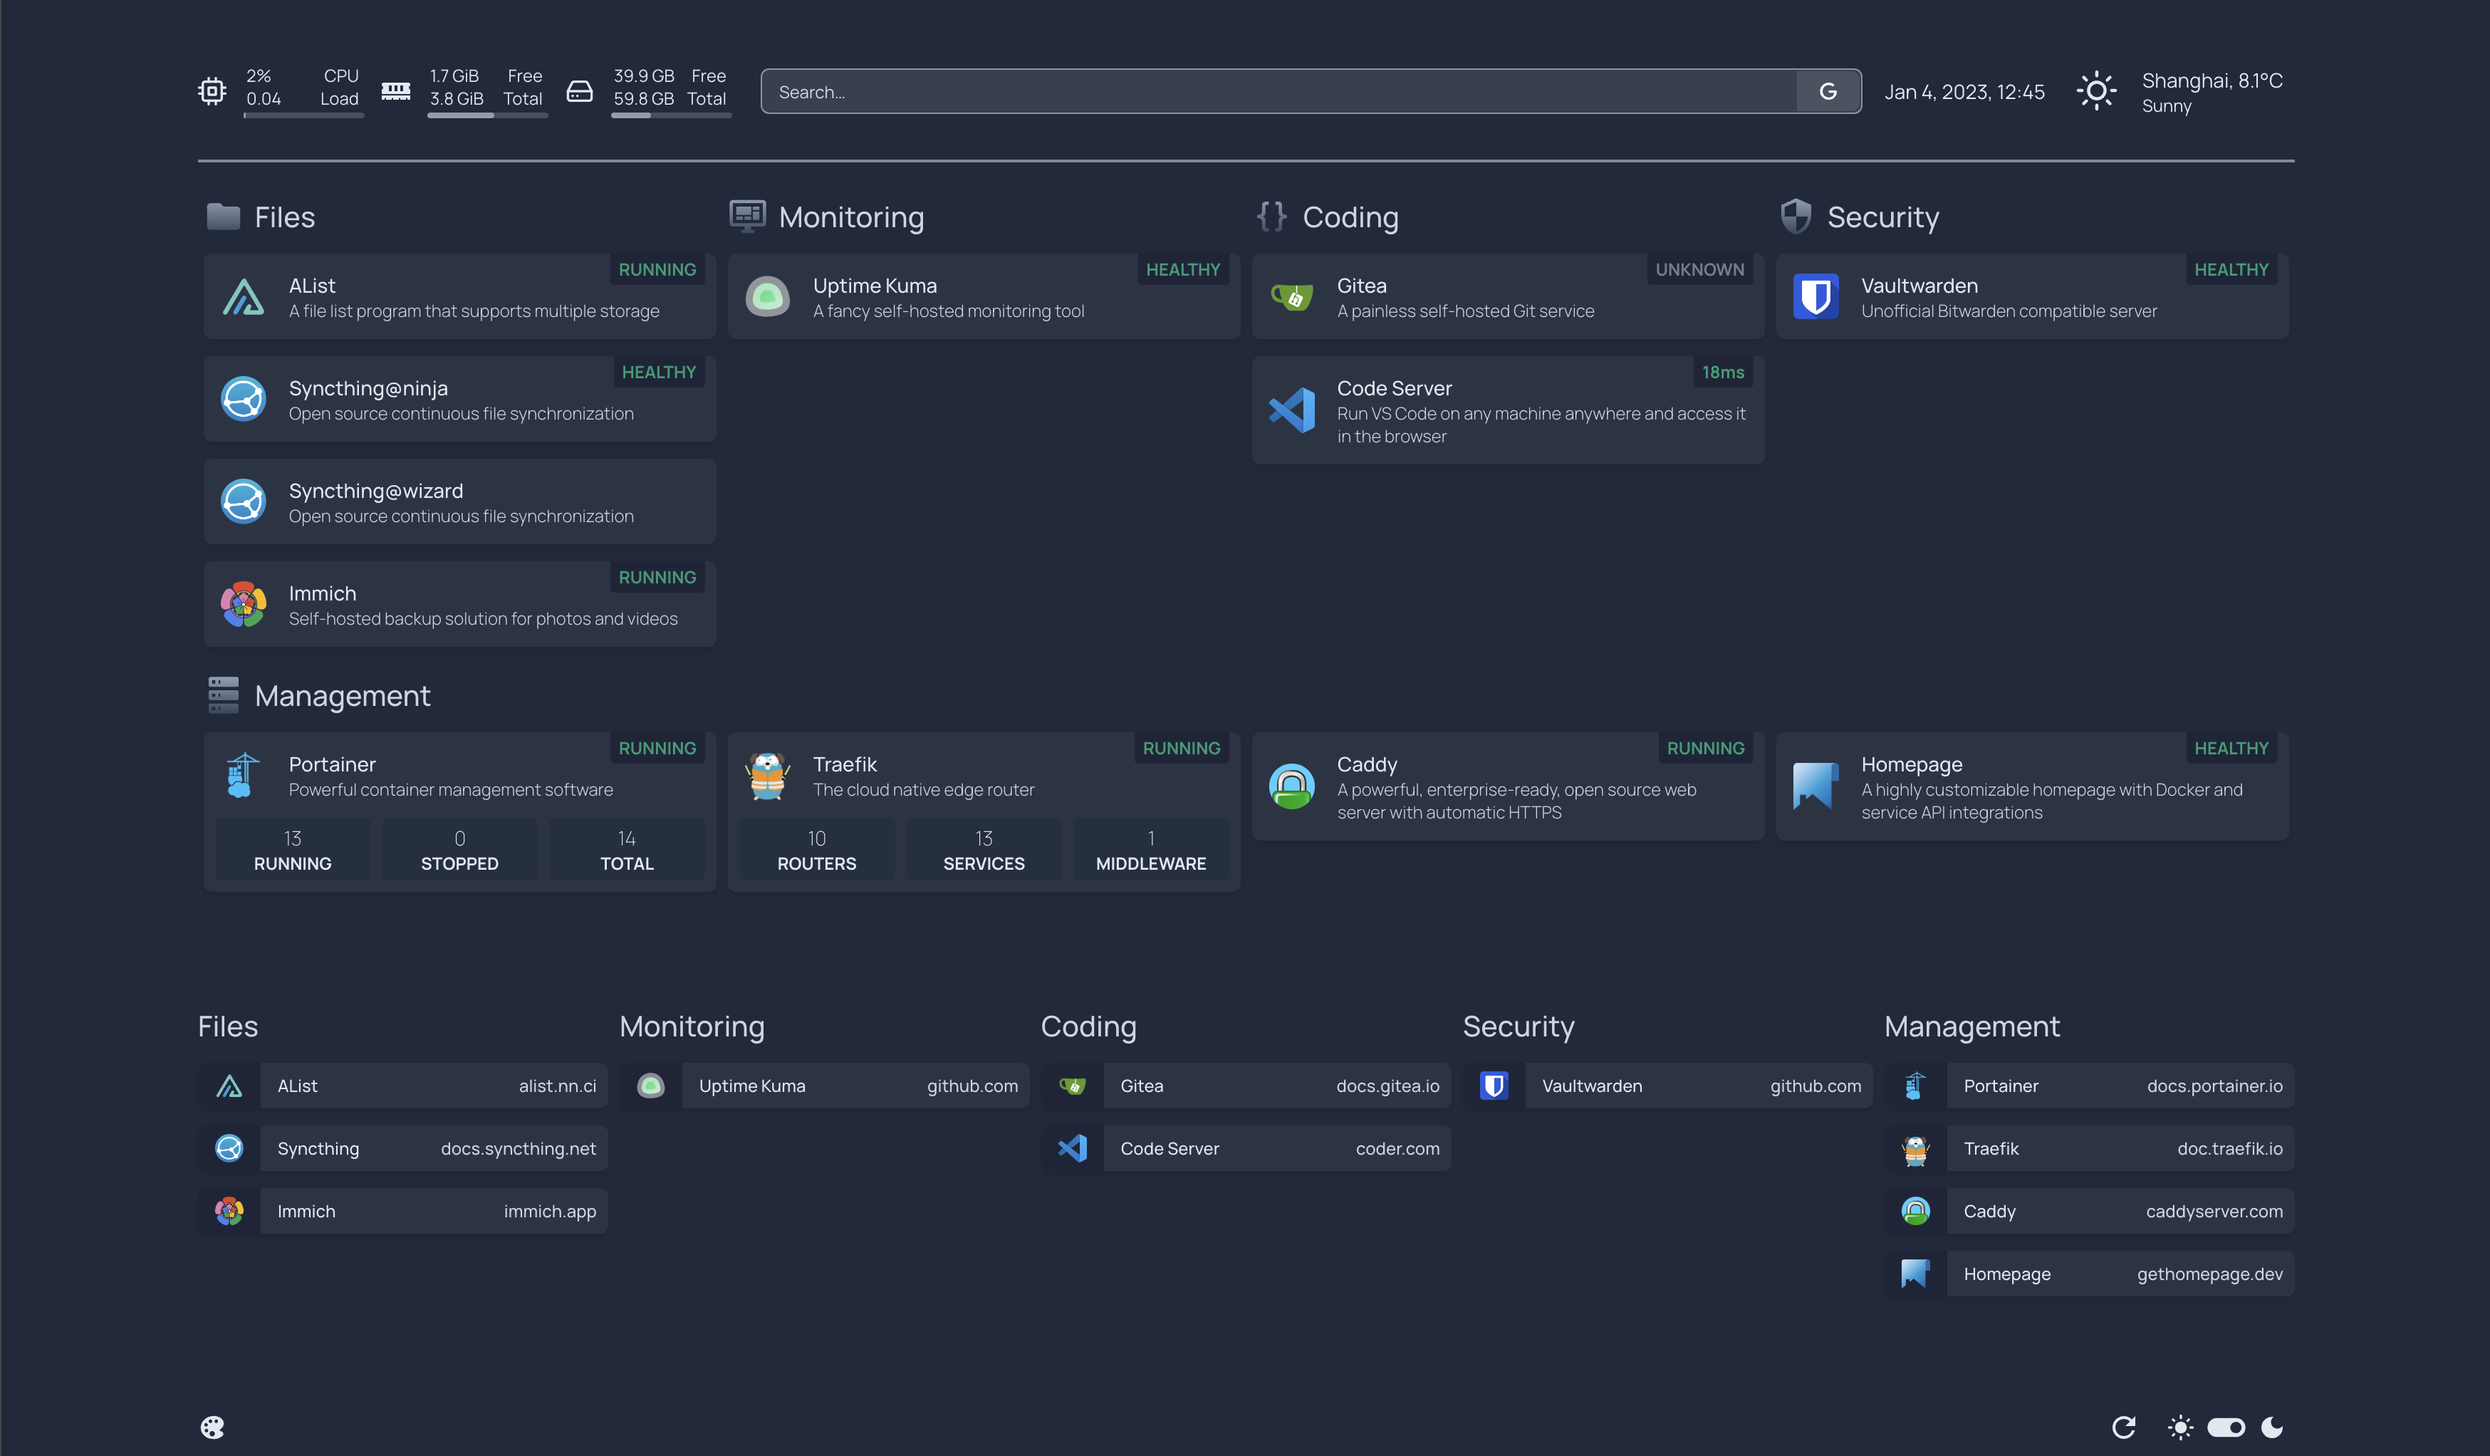
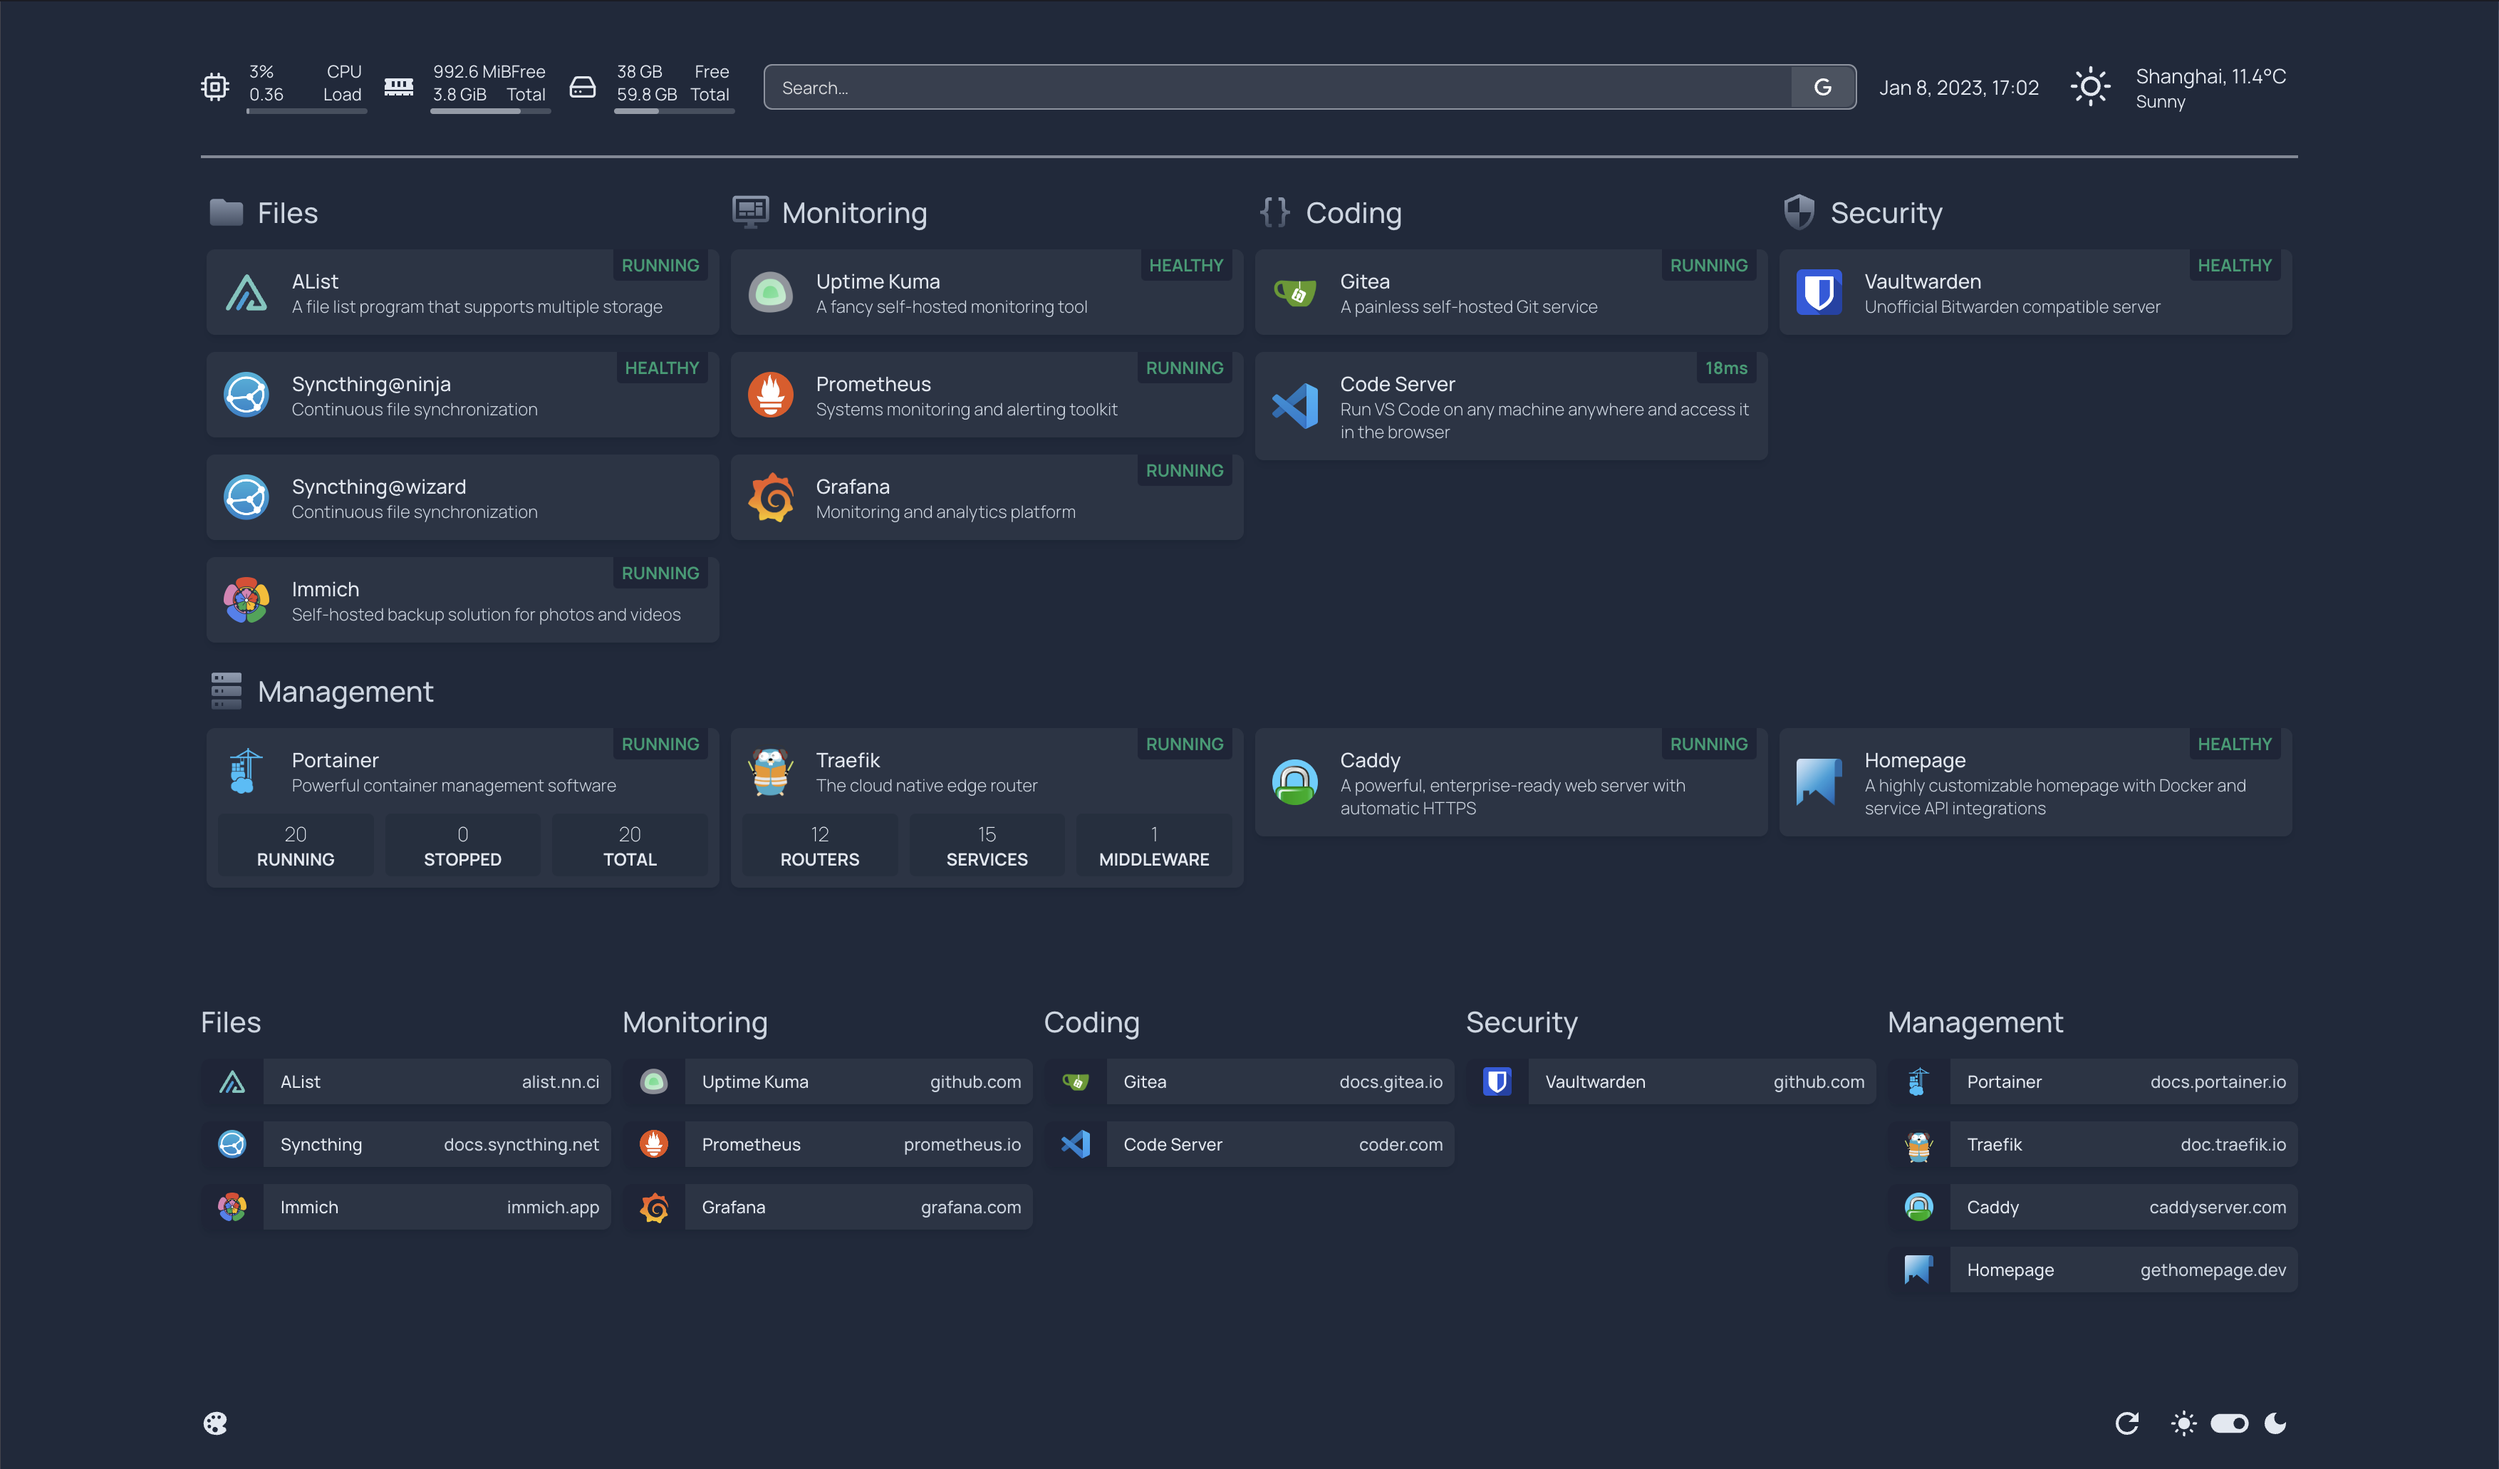
update selfhosting

diff --git a/content/posts/selfhosting/index.md b/content/posts/selfhosting/index.md
@@ -336,6 +336,7 @@ $ docker exec -w /etc/caddy caddy caddy reload
 ### 备份
 
 - 将 `Caddyfile` 放在 `compose/caddy` 目录下一同备份
+- 如有必要，可以备份 Docker Volume
 
 ### 已知问题
 
@@ -399,6 +400,7 @@ ninja.tailnet-48a5.ts.net:8443 {
 ### 备份
 
 - “工具”-“导出密码库”-“.json(Encrypted)”，选择加密是因为要上传云端
+- 如有必要，可以备份 Docker Volume
 
 ### 同类服务
 
@@ -442,6 +444,7 @@ volumes:
 ### 备份
 
 - “Settings”-“Backup Portainer” 可以备份配置文件，同样建议开启密码保护
+- 如有必要，可以备份 Docker Volume
 
 ### 同类服务
 
@@ -535,7 +538,7 @@ $ sed -i 's/api.telegram.org/tg.example.org/g' /app/server/notification-provider
 ### 备份
 
 - “设置”-“备份”中可以进行配置备份
-- 也可以选择直接备份对应的 Docker Volume
+- 如有必要，可以备份 Docker Volume
 
 ### 同类服务
 
@@ -1196,6 +1199,249 @@ networks:
 > 1. [Immich Issue #765](https://github.com/immich-app/immich/issues/765)
 > 1. [Immich Discussions#437](https://github.com/immich-app/immich/discussions/437)
 
+## 监控与日志分析 - Prometheus+Grafana+Loki
+
+为了能对系统状态以及容器状态进行更细粒度的监控和分析，我们可以使用 Prometheus+Grafana+Loki 生态，方便数据可视化和日志集中分析。
+
+### Docker Compose 部署
+
+首先部署 Prometheus，同时使用 Node Exporter 输出系统状态信息，用 cAdvisor 输出容器状态信息，注意后两者都需要挂载一些特殊目录才能正常获取数据。
+
+```yaml
+version: "3"
+
+services:
+  prometheus:
+    image: prom/prometheus:latest
+    container_name: prometheus
+    restart: always
+    networks:
+      - lab
+      - monitoring
+    volumes:
+      - $PWD/prometheus.yml:/etc/prometheus/prometheus.yml:ro
+      - prometheus_data:/prometheus
+    command:
+      - --config.file=/etc/prometheus/prometheus.yml
+      - --storage.tsdb.path=/prometheus
+      - --web.console.libraries=/etc/prometheus/console_libraries
+      - --web.console.templates=/etc/prometheus/consoles
+      - --web.enable-lifecycle
+    labels:
+      - traefik.enable=true
+      - traefik.http.routers.prometheus.rule=Host(`ninja.tailnet-48a5.ts.net`)
+      - traefik.http.routers.prometheus.entrypoints=prometheus
+      - traefik.http.services.prometheus.loadbalancer.server.port=9090
+
+  node-exporter:
+    image: prom/node-exporter:latest
+    container_name: node-exporter
+    restart: always
+    networks:
+      - monitoring
+    volumes:
+      - /proc:/host/proc:ro
+      - /sys:/host/sys:ro
+      - /:/rootfs:ro
+    command:
+      - --path.procfs=/host/proc
+      - --path.rootfs=/rootfs
+      - --path.sysfs=/host/sys
+      - --collector.filesystem.mount-points-exclude=^/(sys|proc|dev|host|etc)($$|/)
+
+  cadvisor:
+    image: gcr.io/cadvisor/cadvisor:latest
+    container_name: cadvisor
+    restart: always
+    networks:
+      - monitoring
+    volumes:
+      - /:/rootfs:ro
+      - /var/run:/var/run:ro
+      - /sys:/sys:ro
+      - /var/lib/docker/:/var/lib/docker:ro
+
+networks:
+  monitoring:
+  lab:
+    external: true
+    
+volumes:
+  prometheus_data:
+```
+
+这里的 `gcr.io/cadvisor/cadvisor` 由于镜像仓库在国内被墙，可以使用国内镜像下载后用 `docker tag` 修改一下镜像标签。和之前类似，我们依然给这三个服务设立一个单独的网络 `monitoring` ，并暴露 `prometheus` 服务本体到 `lab` 网络。实际上，由于后面会使用 Grafana 查看 Prometheus 的数据，不暴露 `prometheus` 服务也是可以的。
+
+挂载的 Prometheus 配置文件中，我们可以采集 Prometheus 自身、Node Exporter 以及 cAdvisor 三个服务的数据：
+
+```yaml
+global:
+  scrape_interval: 1m
+
+scrape_configs:
+  - job_name: "prometheus"
+    static_configs:
+    - targets: ["localhost:9090"]
+
+  - job_name: "node"
+    static_configs:
+    - targets: ["node-exporter:9100"]
+  
+  - job_name: "cadvisor"
+    static_configs:
+    - targets: ["cadvisor:8080"]
+```
+
+注意 Docker Compose 中使用 `prometheus_data` 持久化了 Prometheus 的数据，使得容器重启不会丢数据，也更方便后续备份。这一点对于 Grafana 也同理：
+
+```yaml
+version: "3"
+
+services:
+  grafana:
+    image: grafana/grafana-oss:latest
+    container_name: grafana
+    restart: always
+    networks:
+      - lab
+      - loki
+    volumes:
+      - grafana_data:/var/lib/grafana
+    labels:
+      - traefik.enable=true
+      - traefik.http.routers.grafana.rule=Host(`ninja.tailnet-48a5.ts.net`)
+      - traefik.http.routers.grafana.entrypoints=grafana
+      - traefik.http.services.grafana.loadbalancer.server.port=3000
+
+  loki:
+    image: grafana/loki:latest
+    container_name: loki
+    restart: always
+    networks:
+      - loki
+    volumes:
+      - $PWD/loki-config.yml:/etc/loki/config.yml:ro
+    command: -config.file=/etc/loki/config.yml
+    healthcheck:
+      test: [ "CMD-SHELL", "wget --no-verbose --tries=1 --spider <http://localhost:3100/ready> || exit 1" ]
+      interval: 10s
+      timeout: 5s
+      retries: 5
+
+  promtail:
+    image: grafana/promtail:latest
+    container_name: promtail
+    restart: always
+    networks:
+      - loki
+    volumes:
+      - $PWD/promtail-config.yml:/etc/promtail/config.yml:ro
+      - /var/run/docker.sock:/var/run/docker.sock:ro
+    command: -config.file=/etc/promtail/config.yml
+
+networks:
+  loki:
+  lab:
+    external: true
+
+volumes:
+  grafana_data:
+```
+
+Promtail 会负责收集容器的日志并发送给 Loki，Loki 可以对日志进行分析和查询并通过 Grafana 展示出来。Grafana 同时也可以展示 Prometheus 各个 metrics 的查询结果，或是更直观地通过 Dashboard 来展示重要的 metrics 绘制成的图表。
+
+这里挂载的两个配置文件需要在官网提供的配置文件上根据自己的需求进行修改，例如 Loki 的配置中我们额外设置了 `limits_config` 来解决启动后关于时间戳和流限速的报错：
+
+```yaml
+auth_enabled: false
+
+server:
+  http_listen_port: 3100
+  grpc_listen_port: 9096
+
+common:
+  path_prefix: /tmp/loki
+  storage:
+    filesystem:
+      chunks_directory: /tmp/loki/chunks
+      rules_directory: /tmp/loki/rules
+  replication_factor: 1
+  ring:
+    instance_addr: 127.0.0.1
+    kvstore:
+      store: inmemory
+
+query_range:
+  results_cache:
+    cache:
+      embedded_cache:
+        enabled: true
+        max_size_mb: 100
+
+schema_config:
+  configs:
+    - from: 2020-10-24
+      store: boltdb-shipper
+      object_store: filesystem
+      schema: v11
+      index:
+        prefix: index_
+        period: 24h
+
+limits_config:
+  reject_old_samples: false
+  per_stream_rate_limit: 5M
+
+# ...
+analytics:
+  reporting_enabled: false
+```
+
+Promtail 的配置如下，需要确保能与 Loki API 通信且能访问 Docker Socket（因为我们主要收集容器化服务的日志），并重命名一些我们需要的 label 来简化查询：
+
+```yaml
+server:
+  http_listen_port: 9080
+  grpc_listen_port: 0
+
+positions:
+  filename: /tmp/positions.yaml
+
+clients:
+  - url: <http://loki:3100/loki/api/v1/push>
+
+scrape_configs:
+- job_name: container_scrape
+  docker_sd_configs:
+    - host: unix:///var/run/docker.sock
+      refresh_interval: 5s
+  relabel_configs:
+    - source_labels: ['__meta_docker_container_name']
+      regex: '/(.*)'
+      target_label: 'container'
+```
+
+之后就是配置 Grafana Dashboard 了。由于这一生态功能非常强大，其配置和查询语法也异常复杂，超出了本文讨论的范围。
+
+### 备份
+
+- 配置文件备份：在 `compose` 备份中完成
+- 如有必要，可以备份 Docker Volume
+
+### 同类服务
+
+- [Glances](https://nicolargo.github.io/glances/)
+- [Netdata](https://www.netdata.cloud/)
+- [ELK Stack](https://www.elastic.co/cn/what-is/elk-stack)
+
+> 相关资料：
+>
+> 1. [Prometheus 官方文档](https://prometheus.io/)
+> 2. [vegasbrianc/prometheus](https://github.com/vegasbrianc/prometheus)
+> 3. [Grafana 官方文档](https://grafana.com/docs/grafana/latest/)
+> 4. [Loki Issues#1923](https://github.com/grafana/loki/issues/1923)
+> 5. [Loki/Promtail : parsing timestamp that are too old](https://community.grafana.com/t/loki-promtail-parsing-timestamp-that-are-too-old/41934)
+> 6. [Loki 官方文档](https://grafana.com/docs/loki/latest/)
 
 ## Homelab 目前已知问题
 
